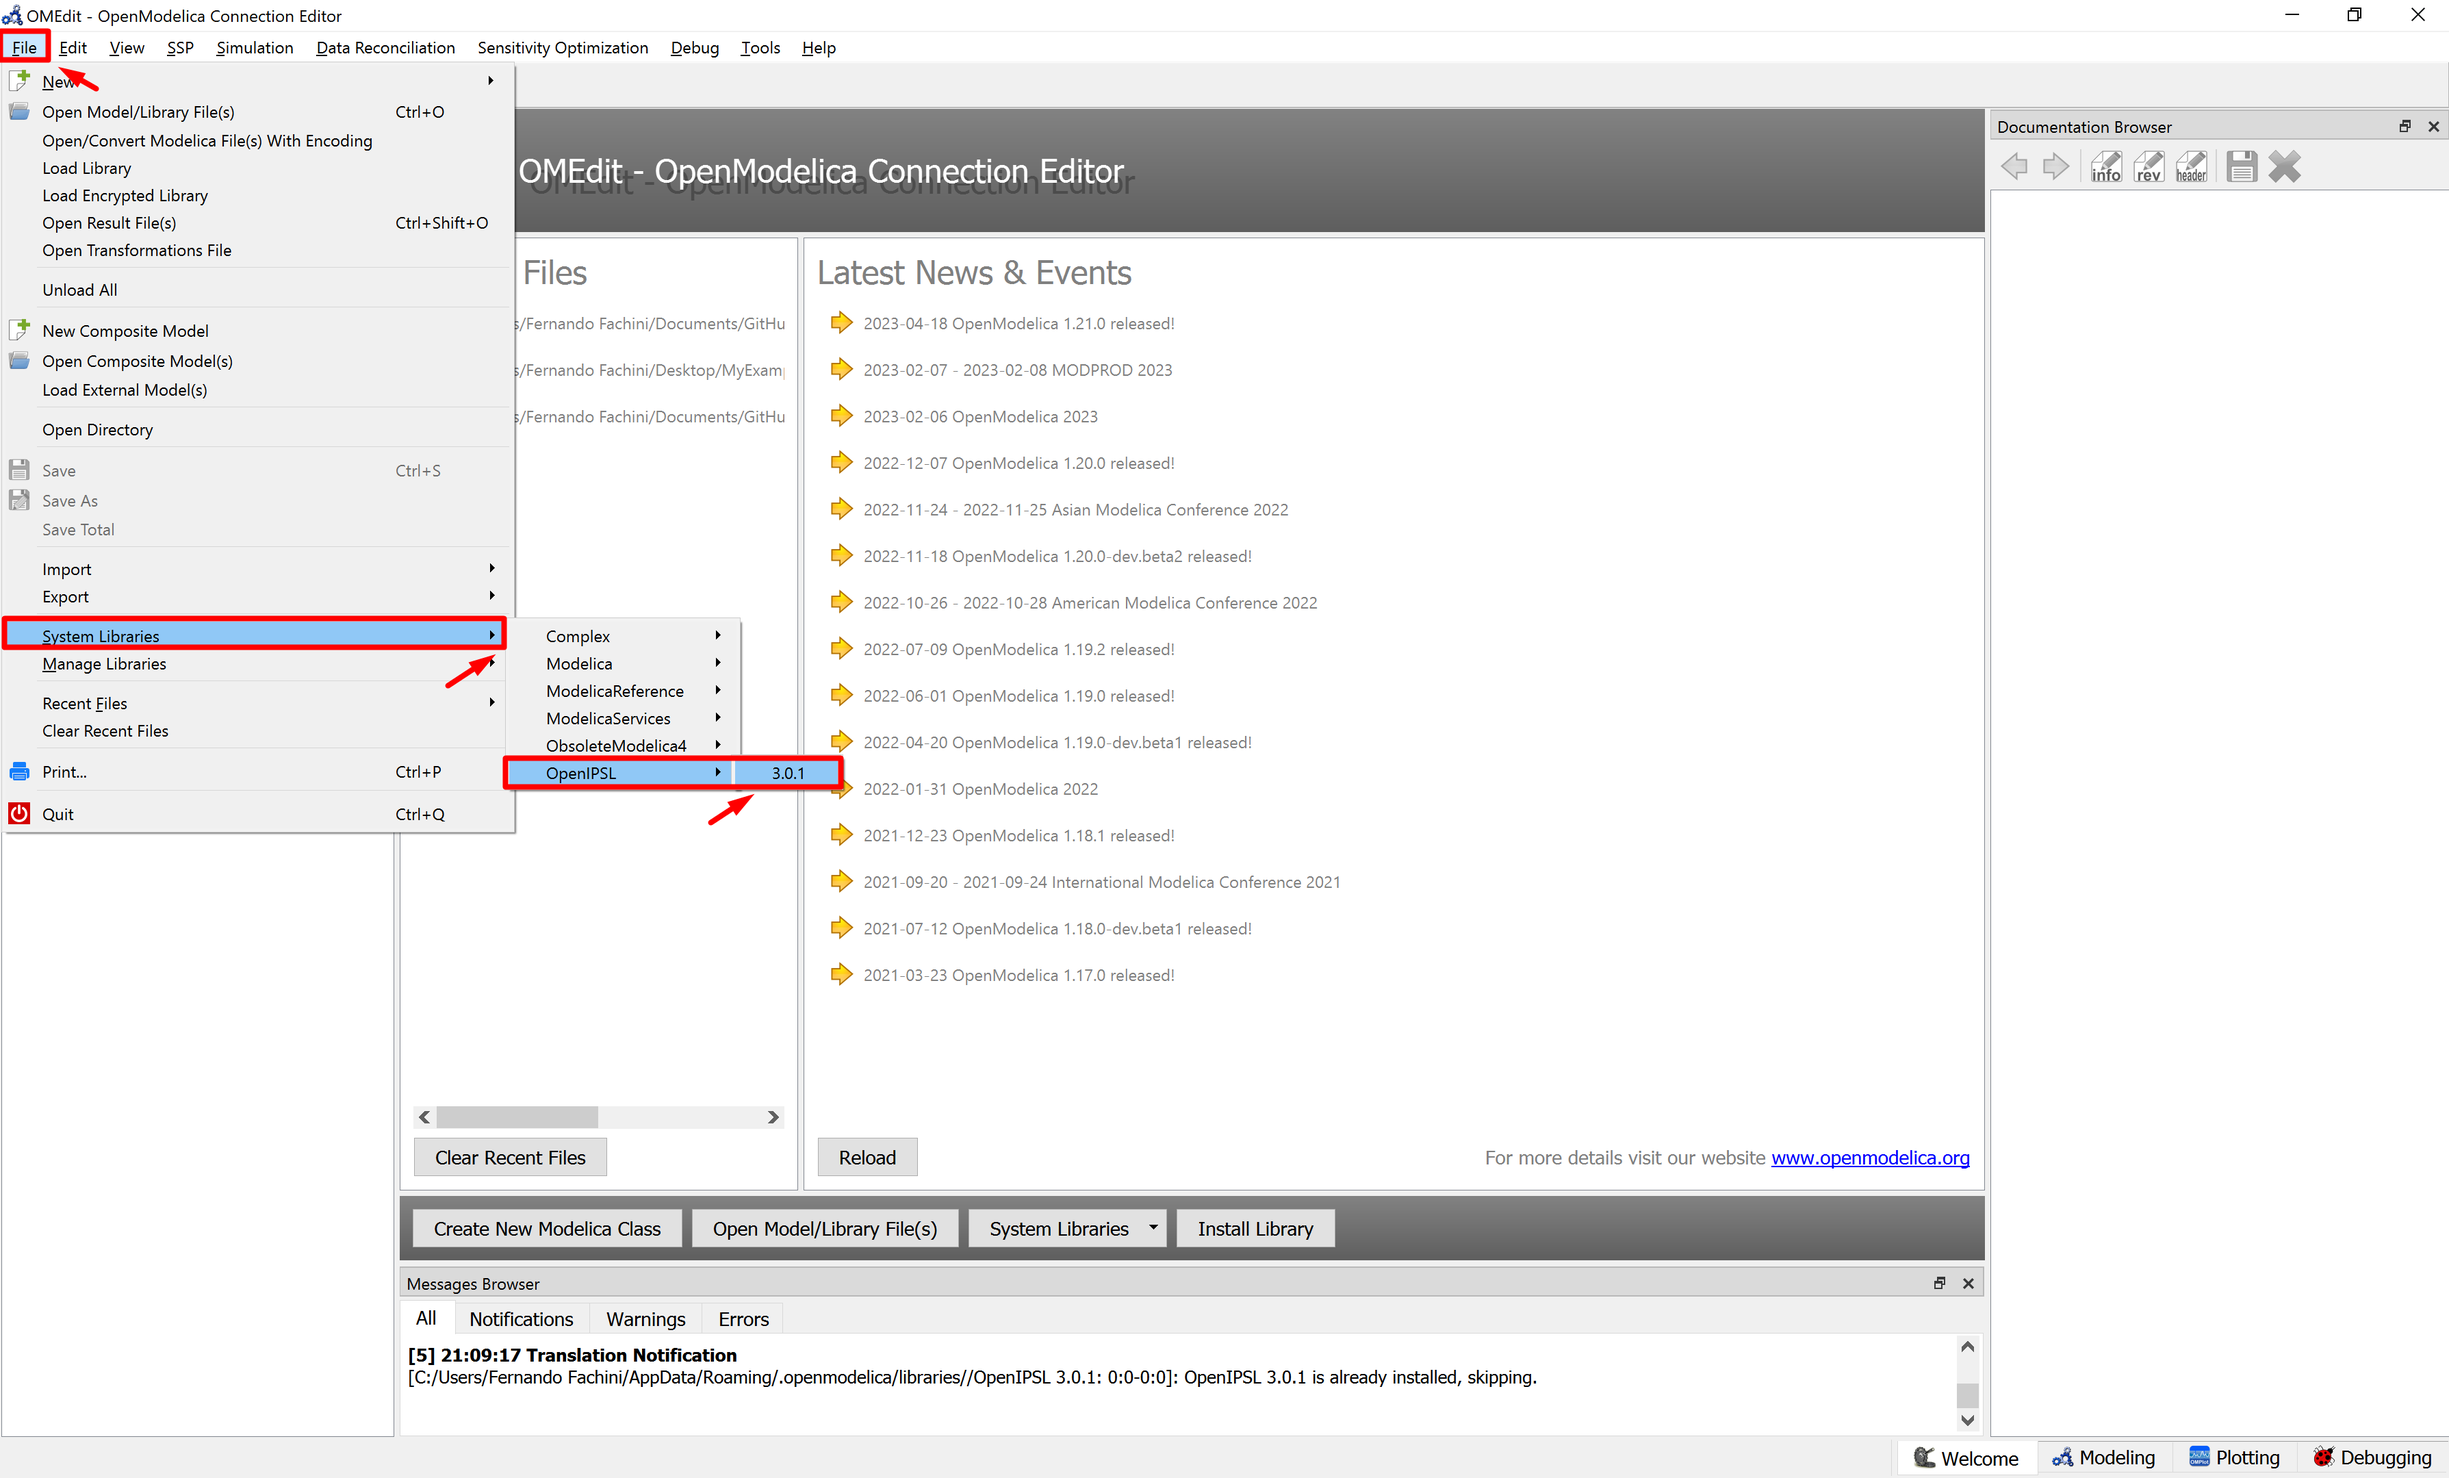
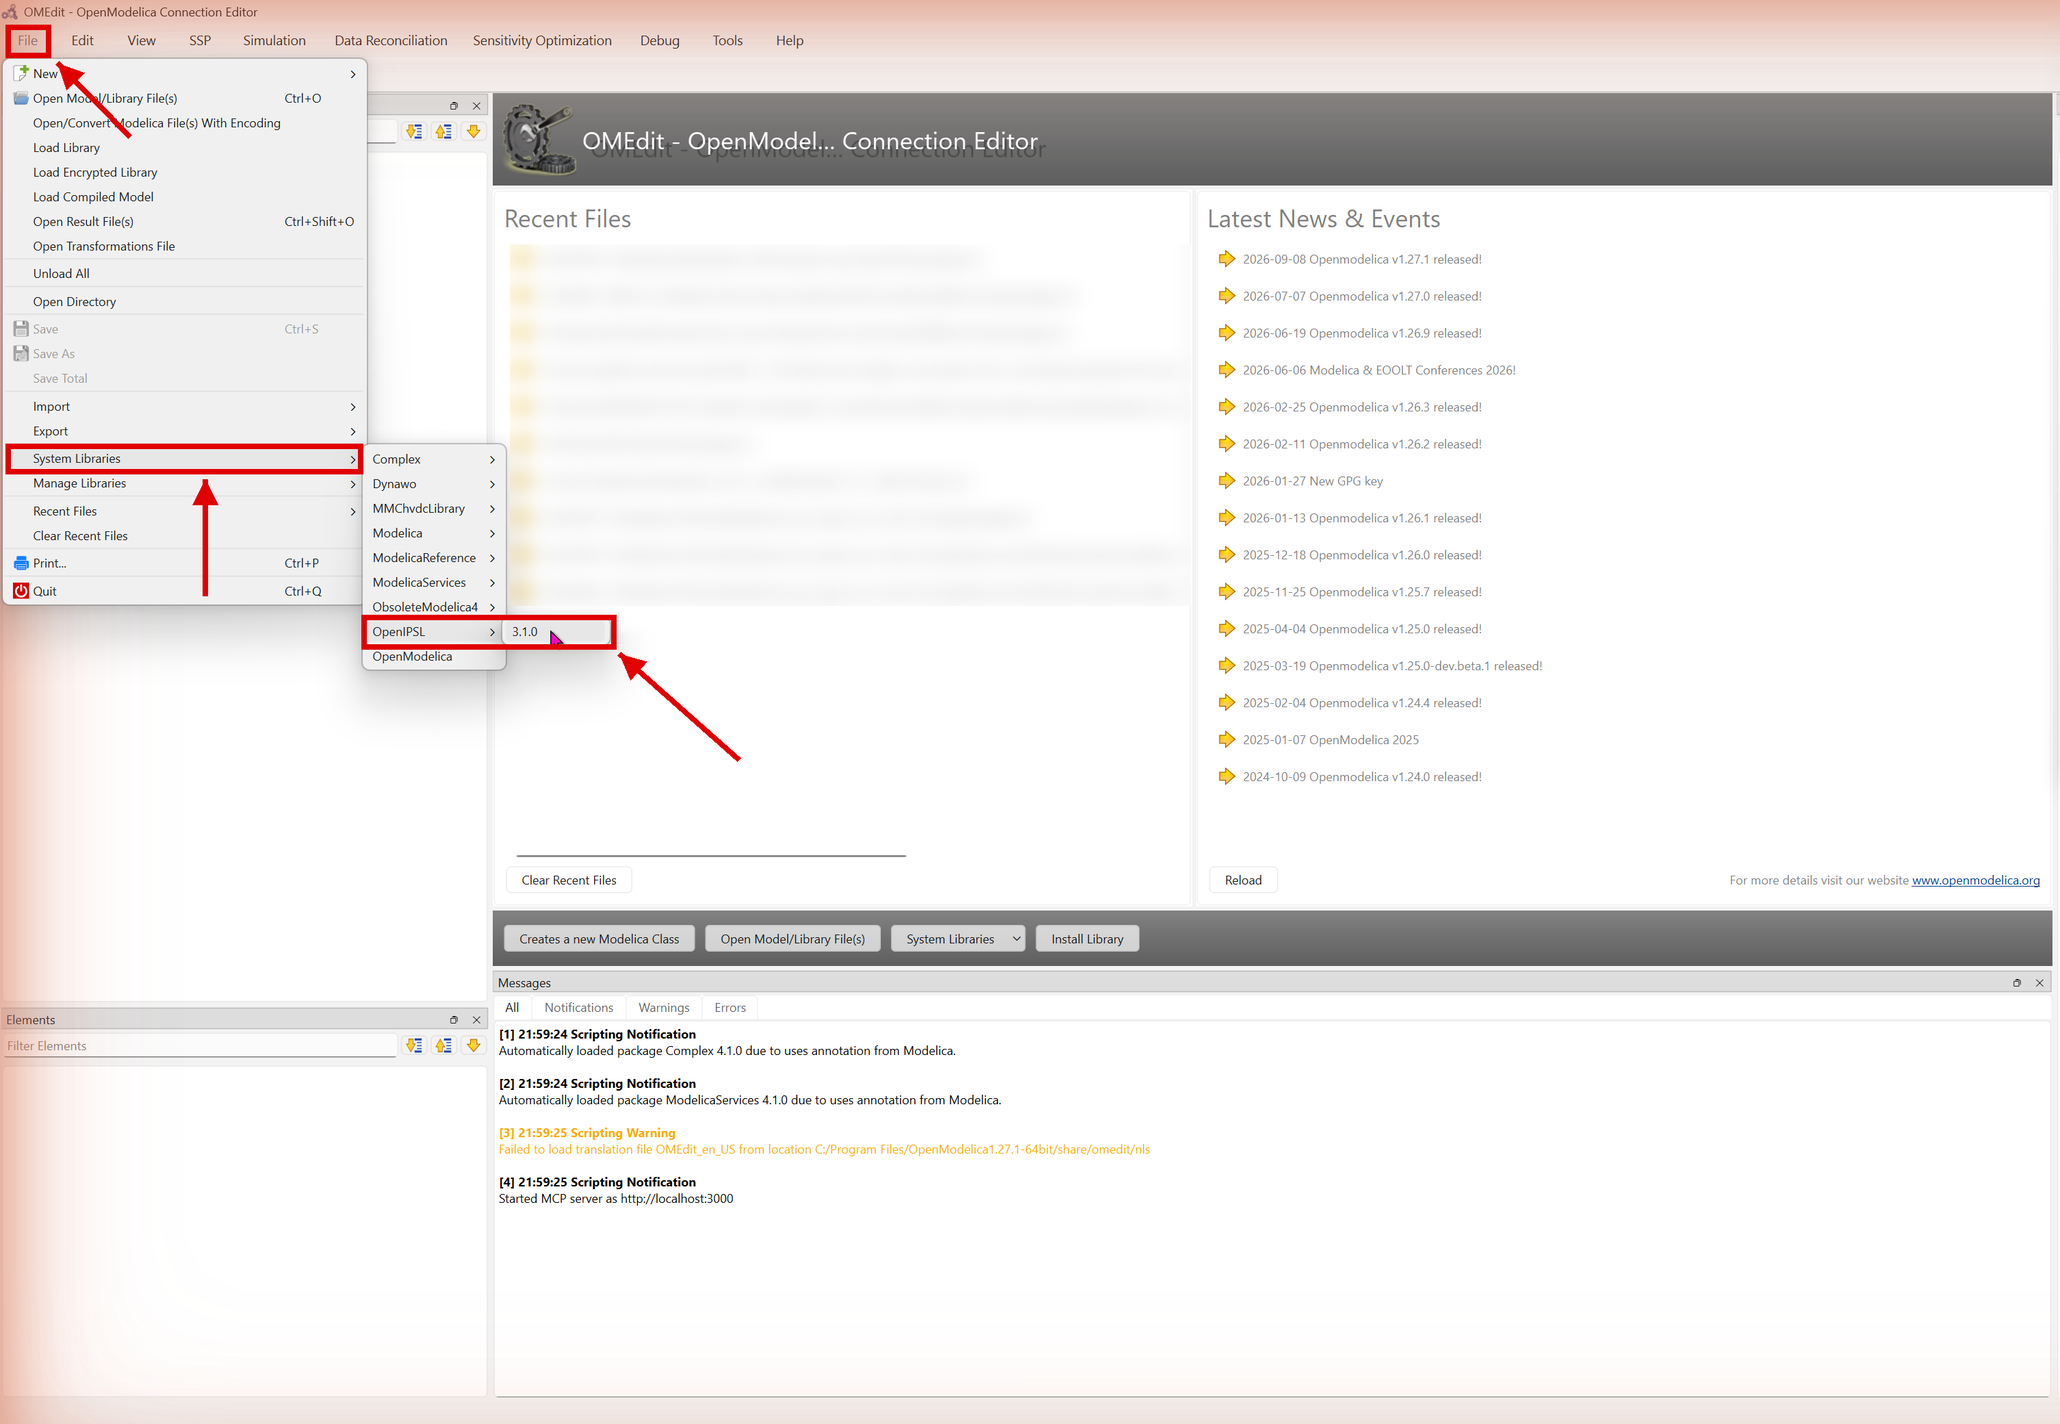
README: retake the OpenIPSL loading screenshot with 3.1.0
docs/Figures/LoadingOpenIPSL.png now shows File > System Libraries >
OpenIPSL > 3.1.0 in OMEdit 1.27.1 (recent-file paths blurred), so the
sentence saying that the figure still showed 3.0.1 is removed from step 3.

diff --git a/README.md b/README.md
@@ -40,7 +40,7 @@ Search for OpenIPSL and click ok
 ![OpenModelica Search](docs/Figures/SearchOpenIPSL.png "Searching OpenIPSL")
 
 ### Step 3. Loading OpenIPSL and OpenIMDML
-Now you should load OpenIPSL by going to *File>System Libraries>OpenIPSL>3.1.0*. OpenIMDML is tested with OpenModelica 1.27.1 and Dymola 2026x Refresh 1 on Windows against OpenIPSL 3.1.0 and the Modelica Standard Library 4.1.0 with Complex 4.1.0, the versions declared in `OpenIMDML/package.mo`. The figure below still shows the 3.0.1 entry of an older OpenModelica installation.
+Now you should load OpenIPSL by going to *File>System Libraries>OpenIPSL>3.1.0*. OpenIMDML is tested with OpenModelica 1.27.1 and Dymola 2026x Refresh 1 on Windows against OpenIPSL 3.1.0 and the Modelica Standard Library 4.1.0 with Complex 4.1.0, the versions declared in `OpenIMDML/package.mo`.
 ![Load OpenIPSL](docs/Figures/LoadingOpenIPSL.png "Loading OpenIPSL")
 In order to load OpenIMDML, you have to know the folder where you downloaded the library. You should go to *File>Open Model/Library File(s)* and search for the folder where you downloaded OpenIMDML. Once you have found the folder, you must load the **package.mo** file.
 ![Load OpenIMDML](docs/Figures/OpenIMDMLLOADING.png "Loading OpenIMDML")
